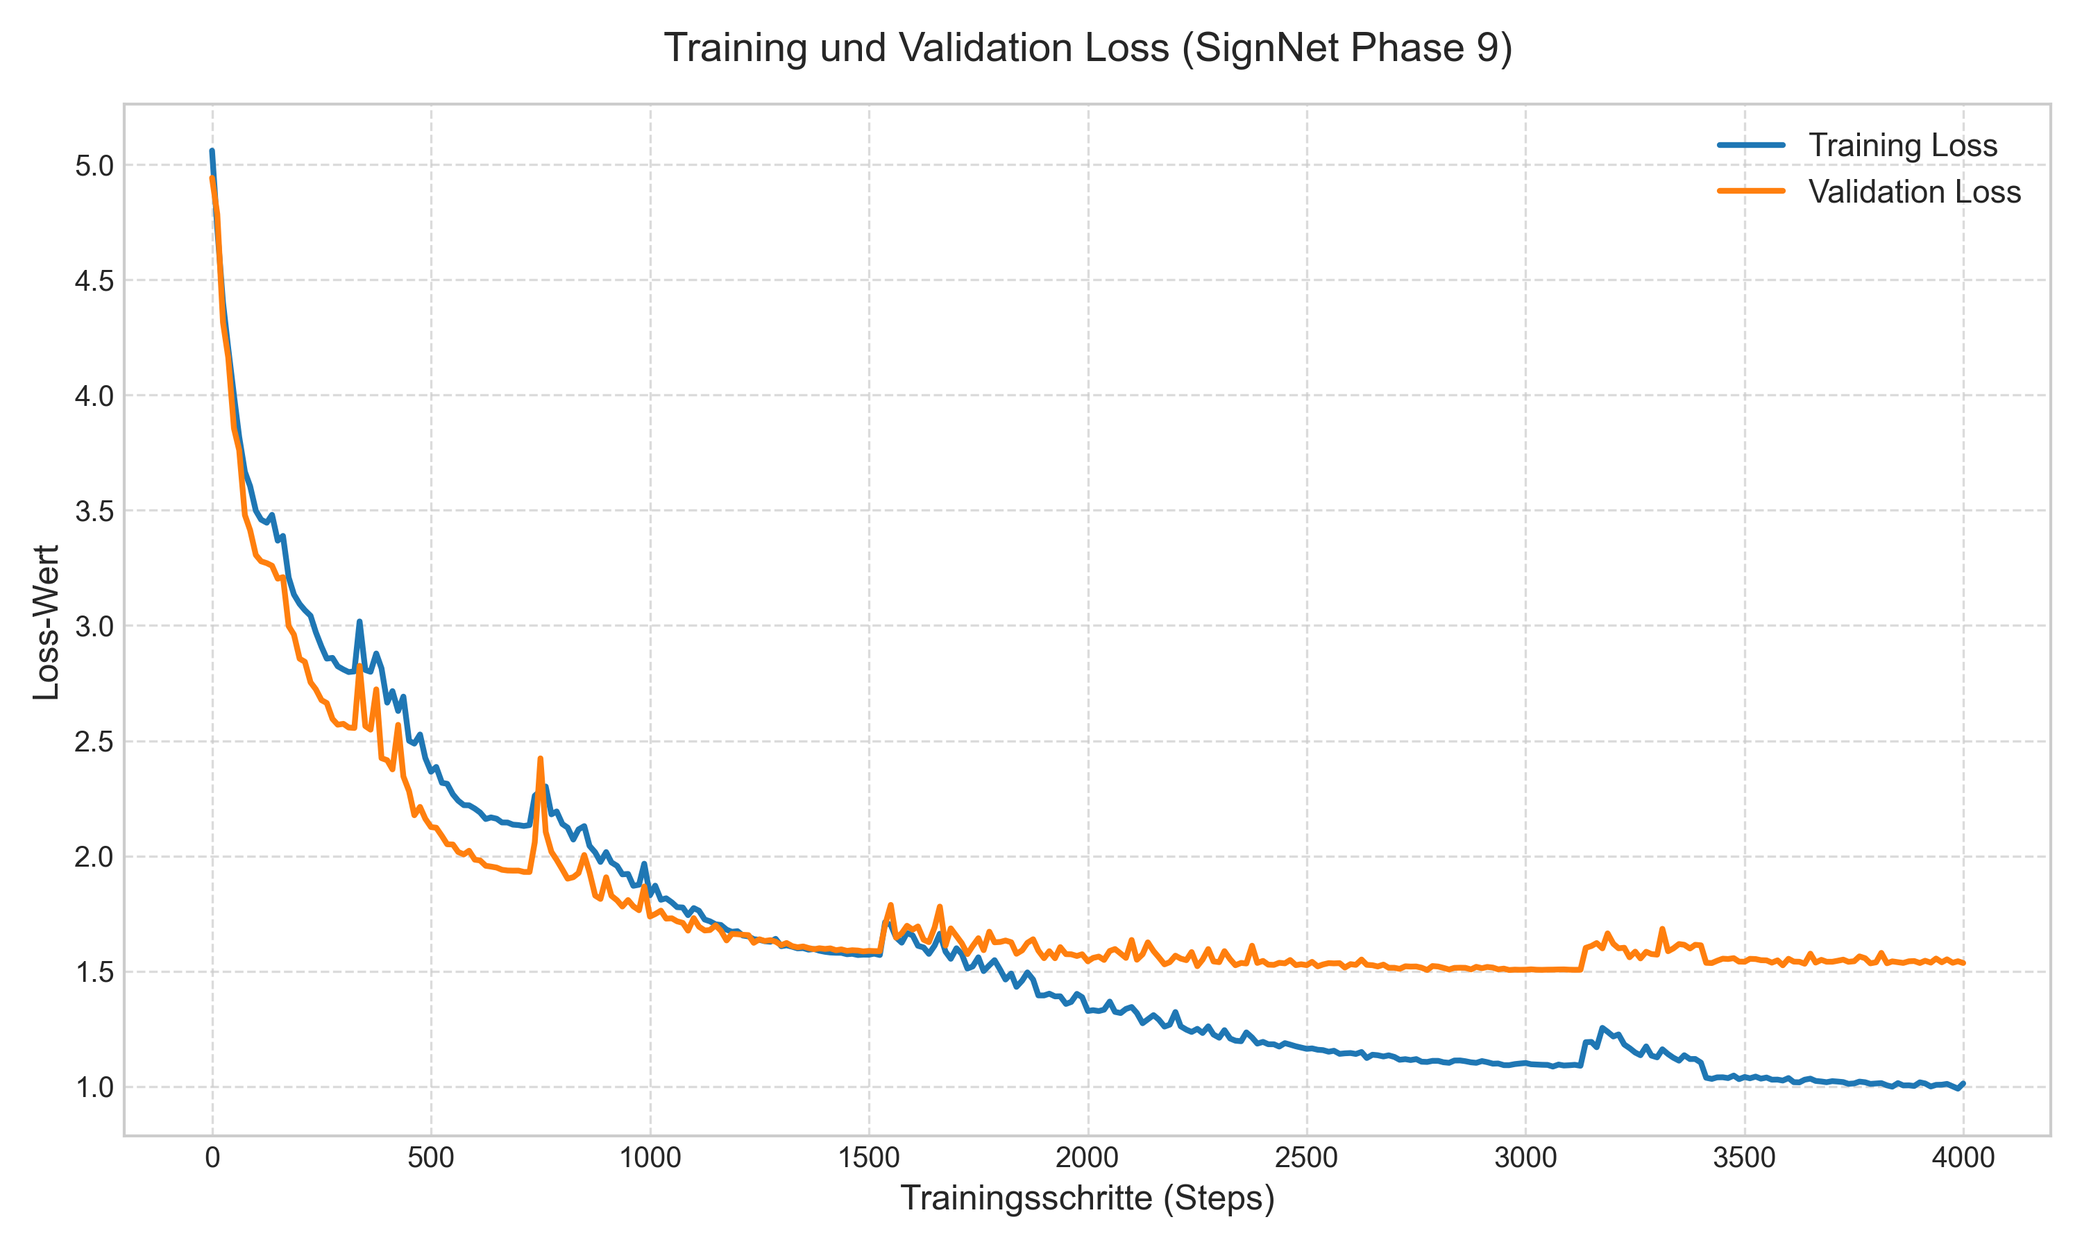
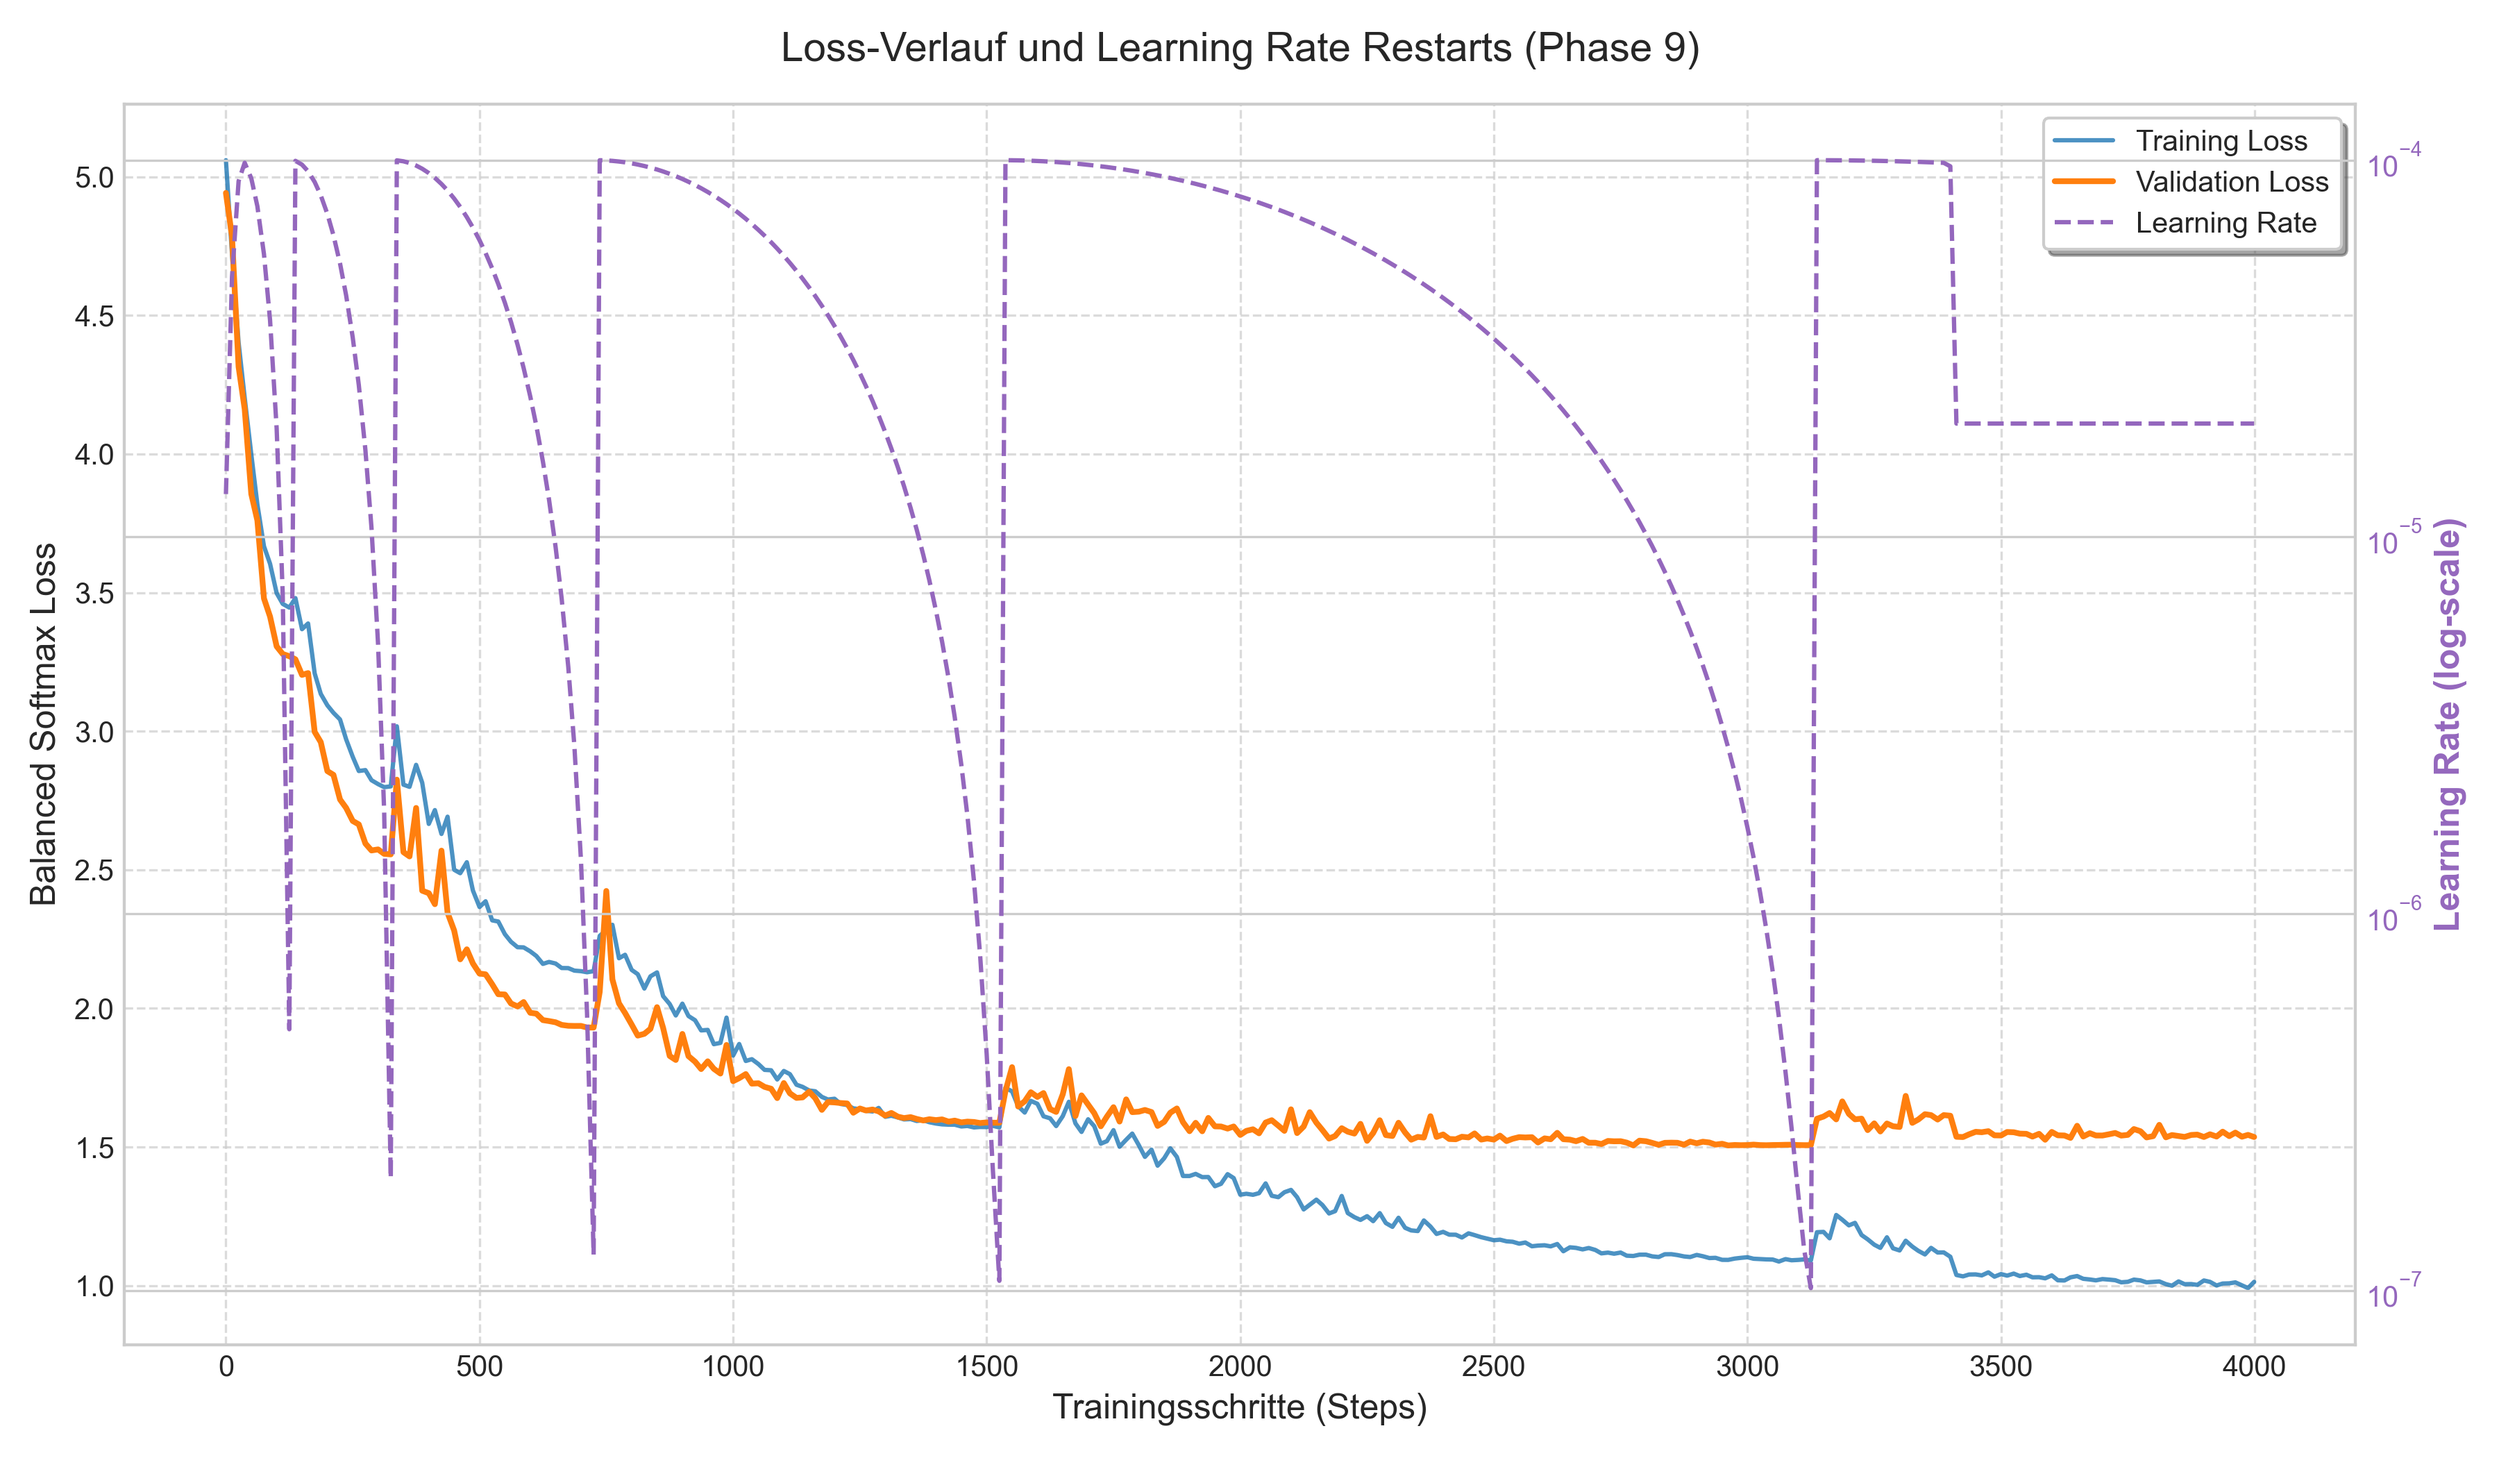
added learnin rate top plots

diff --git a/DynamicSignNet/scripts/plot_results.py b/DynamicSignNet/scripts/plot_results.py
@@ -3,49 +3,64 @@ import matplotlib.pyplot as plt
 
 def plot_training_results():
     # 1. Daten laden
-    # Die Dateien müssen im selben Ordner wie das Skript liegen
     try:
         df_train_loss = pd.read_csv('train_loss.csv')
         df_val_loss = pd.read_csv('val_loss.csv')
         df_train_acc = pd.read_csv('train_accuracy.csv')
         df_val_acc = pd.read_csv('val_accuracy.csv')
+        df_lr = pd.read_csv('learning_rate.csv') # NEU: Lernraten-Daten
     except FileNotFoundError as e:
         print(f"Fehler: Eine der CSV-Dateien wurde nicht gefunden: {e}")
         return
 
-    # Daten sortieren (falls die Schritte nicht in Reihenfolge sind)
-    df_train_loss = df_train_loss.sort_values('step')
-    df_val_loss = df_val_loss.sort_values('step')
-    df_train_acc = df_train_acc.sort_values('step')
-    df_val_acc = df_val_acc.sort_values('step')
+    # Daten sortieren
+    dfs = [df_train_loss, df_val_loss, df_train_acc, df_val_acc, df_lr]
+    for df in dfs:
+        df.sort_values('step', inplace=True)
 
     # 2. Plot-Styling
     plt.style.use('seaborn-v0_8-whitegrid')
     
-    # 3. Grafik für Loss (Verlust)
-    plt.figure(figsize=(10, 6))
-    plt.plot(df_train_loss['step'], df_train_loss['value'], label='Training Loss', color='#1f77b4', linewidth=2)
-    plt.plot(df_val_loss['step'], df_val_loss['value'], label='Validation Loss', color='#ff7f0e', linewidth=2)
+    # 3. Grafik für Loss mit zweiter Achse für Learning Rate
+    fig, ax1 = plt.subplots(figsize=(12, 7))
+
+    # Linke Achse: Loss
+    lns1 = ax1.plot(df_train_loss['step'], df_train_loss['value'], label='Training Loss', color='#1f77b4', linewidth=1.5, alpha=0.8)
+    lns2 = ax1.plot(df_val_loss['step'], df_val_loss['value'], label='Validation Loss', color='#ff7f0e', linewidth=2)
+    ax1.set_xlabel('Trainingsschritte (Steps)', fontsize=12)
+    ax1.set_ylabel('Balanced Softmax Loss', fontsize=12)
+    ax1.set_title('Loss-Verlauf und Learning Rate Restarts (Phase 9)', fontsize=14, pad=15)
+
+    # Rechte Achse: Learning Rate
+    ax2 = ax1.twinx()
+    # Farbe auf Lila geändert, Linienstärke erhöht, Alpha auf 1.0 (voll deckend)
+    lns3 = ax2.plot(df_lr['step'], df_lr['value'], label='Learning Rate', 
+                    color='#9467bd', linestyle='--', linewidth=1.5, alpha=1.0)
     
-    plt.title('Training und Validation Loss (SignNet Phase 9)', fontsize=14, pad=15)
-    plt.xlabel('Trainingsschritte (Steps)', fontsize=12)
-    plt.ylabel('Loss-Wert', fontsize=12)
-    plt.legend(fontsize=11)
-    plt.grid(True, linestyle='--', alpha=0.7)
+    ax2.set_yscale('log') # Logarithmisch wegen 1e-4 bis 1e-7
+    ax2.set_ylabel('Learning Rate (log-scale)', fontsize=12, color='#9467bd', fontweight='bold')
+    ax2.tick_params(axis='y', labelcolor='#9467bd')
+
+    # Kombinierte Legende
+    lns = lns1 + lns2 + lns3
+    labs = [l.get_label() for l in lns]
+    ax1.legend(lns, labs, loc='upper right', fontsize=10, frameon=True, shadow=True)
+
+    ax1.grid(True, linestyle='--', alpha=0.7)
     plt.tight_layout()
-    plt.savefig('loss_plot_final.png', dpi=300)
-    print("Grafik gespeichert: loss_plot_final.png")
+    plt.savefig('loss_plot_with_lr.png', dpi=300)
+    print("Grafik gespeichert: loss_plot_with_lr.png")
     plt.show()
 
-    # 4. Grafik für Accuracy (Genauigkeit)
-    plt.figure(figsize=(10, 6))
-    plt.plot(df_train_acc['step'], df_train_acc['value'], label='Training Accuracy', color='#2ca02c', linewidth=2)
+    # 4. Grafik für Accuracy (unverändert, aber im selben Stil)
+    plt.figure(figsize=(12, 7))
+    plt.plot(df_train_acc['step'], df_train_acc['value'], label='Training Accuracy', color='#2ca02c', linewidth=1.5, alpha=0.8)
     plt.plot(df_val_acc['step'], df_val_acc['value'], label='Validation Accuracy', color='#d62728', linewidth=2)
     
     plt.title('Training und Validation Accuracy (SignNet Phase 9)', fontsize=14, pad=15)
     plt.xlabel('Trainingsschritte (Steps)', fontsize=12)
     plt.ylabel('Accuracy (0.0 - 1.0)', fontsize=12)
-    plt.legend(fontsize=11)
+    plt.legend(loc='lower right', fontsize=11, frameon=True, shadow=True)
     plt.grid(True, linestyle='--', alpha=0.7)
     plt.tight_layout()
     plt.savefig('accuracy_plot_final.png', dpi=300)

diff --git a/DynamicSignNet/Documents/Dokumentation/chapters/results.tex b/DynamicSignNet/Documents/Dokumentation/chapters/results.tex
@@ -50,24 +50,22 @@ Validierungsset & 5.657 & 20,0\,\% \\
 Der Verlauf von Loss und Accuracy des finalen Modells (Phase~9) wurde über die gesamte Trainingsdauer aufgezeichnet. In \autoref{fig:loss_plot} ist zu sehen, dass sich Trainings- und Validierungs-Loss konsistent nach unten bewegen. Die Accuracy-Kurven (\autoref{fig:accuracy_plot}) zeigen ein stetiges Ansteigen mit einem anschliessenden Plateau. Im stabilen Bereich beträgt die Differenz zwischen Trainings- und Validierungswerten etwa 11,55~Prozentpunkte.
 
 \begin{figure}[H]
-     \centering
-     % Linke Unterabbildung: Loss
-     \begin{subfigure}[b]{0.49\textwidth}
-         \centering
-         \includegraphics[width=\textwidth]{figures/loss_plot_final.png}
-         \caption{Balanced Softmax Loss}
-         \label{fig:loss_plot}
-     \end{subfigure}
-     \hfill
-     % Rechte Unterabbildung: Accuracy
-     \begin{subfigure}[b]{0.49\textwidth}
-         \centering
-         \includegraphics[width=\textwidth]{figures/accuracy_plot_final.png}
-         \caption{Accuracy (Top-1)}
-         \label{fig:accuracy_plot}
-     \end{subfigure}
-     \caption{Trainingsmetriken der finalen Phase~9: Gegenüberstellung von Loss-Entwicklung und Klassifikationsgenauigkeit.}
-     \label{fig:metrics_comparison}
+    \centering
+    \begin{subfigure}[b]{0.49\textwidth}
+        \centering
+        \includegraphics[width=\textwidth]{figures/loss_plot_final.png}
+        \caption{Balanced Softmax Loss und Lernrate}
+        \label{fig:loss_lr}
+    \end{subfigure}
+    \hfill
+    \begin{subfigure}[b]{0.49\textwidth}
+        \centering
+        \includegraphics[width=\textwidth]{figures/accuracy_plot_final.png}
+        \caption{Top-1 Accuracy}
+        \label{fig:accuracy_plot_dual}
+    \end{subfigure}
+    \caption{Trainingsmetriken der Phase~9: (a) zeigt den Verlauf des \textit{Balanced Softmax Loss} im Verhältnis zur zyklischen Lernrate (lila gestrichelt). Die periodischen Restarts des \textit{CosineAnnealing}-Schedulers ($T_0 = 100$, $T_{\text{mult}} = 2$) unterstützen das Verlassen lokaler Optima und fördern eine tiefere Konvergenz. (b) verdeutlicht die Stabilisierung der Validierungsgenauigkeit bei 73{,}86\,\%.}
+    \label{fig:final_metrics_combined}
 \end{figure}
 
 
